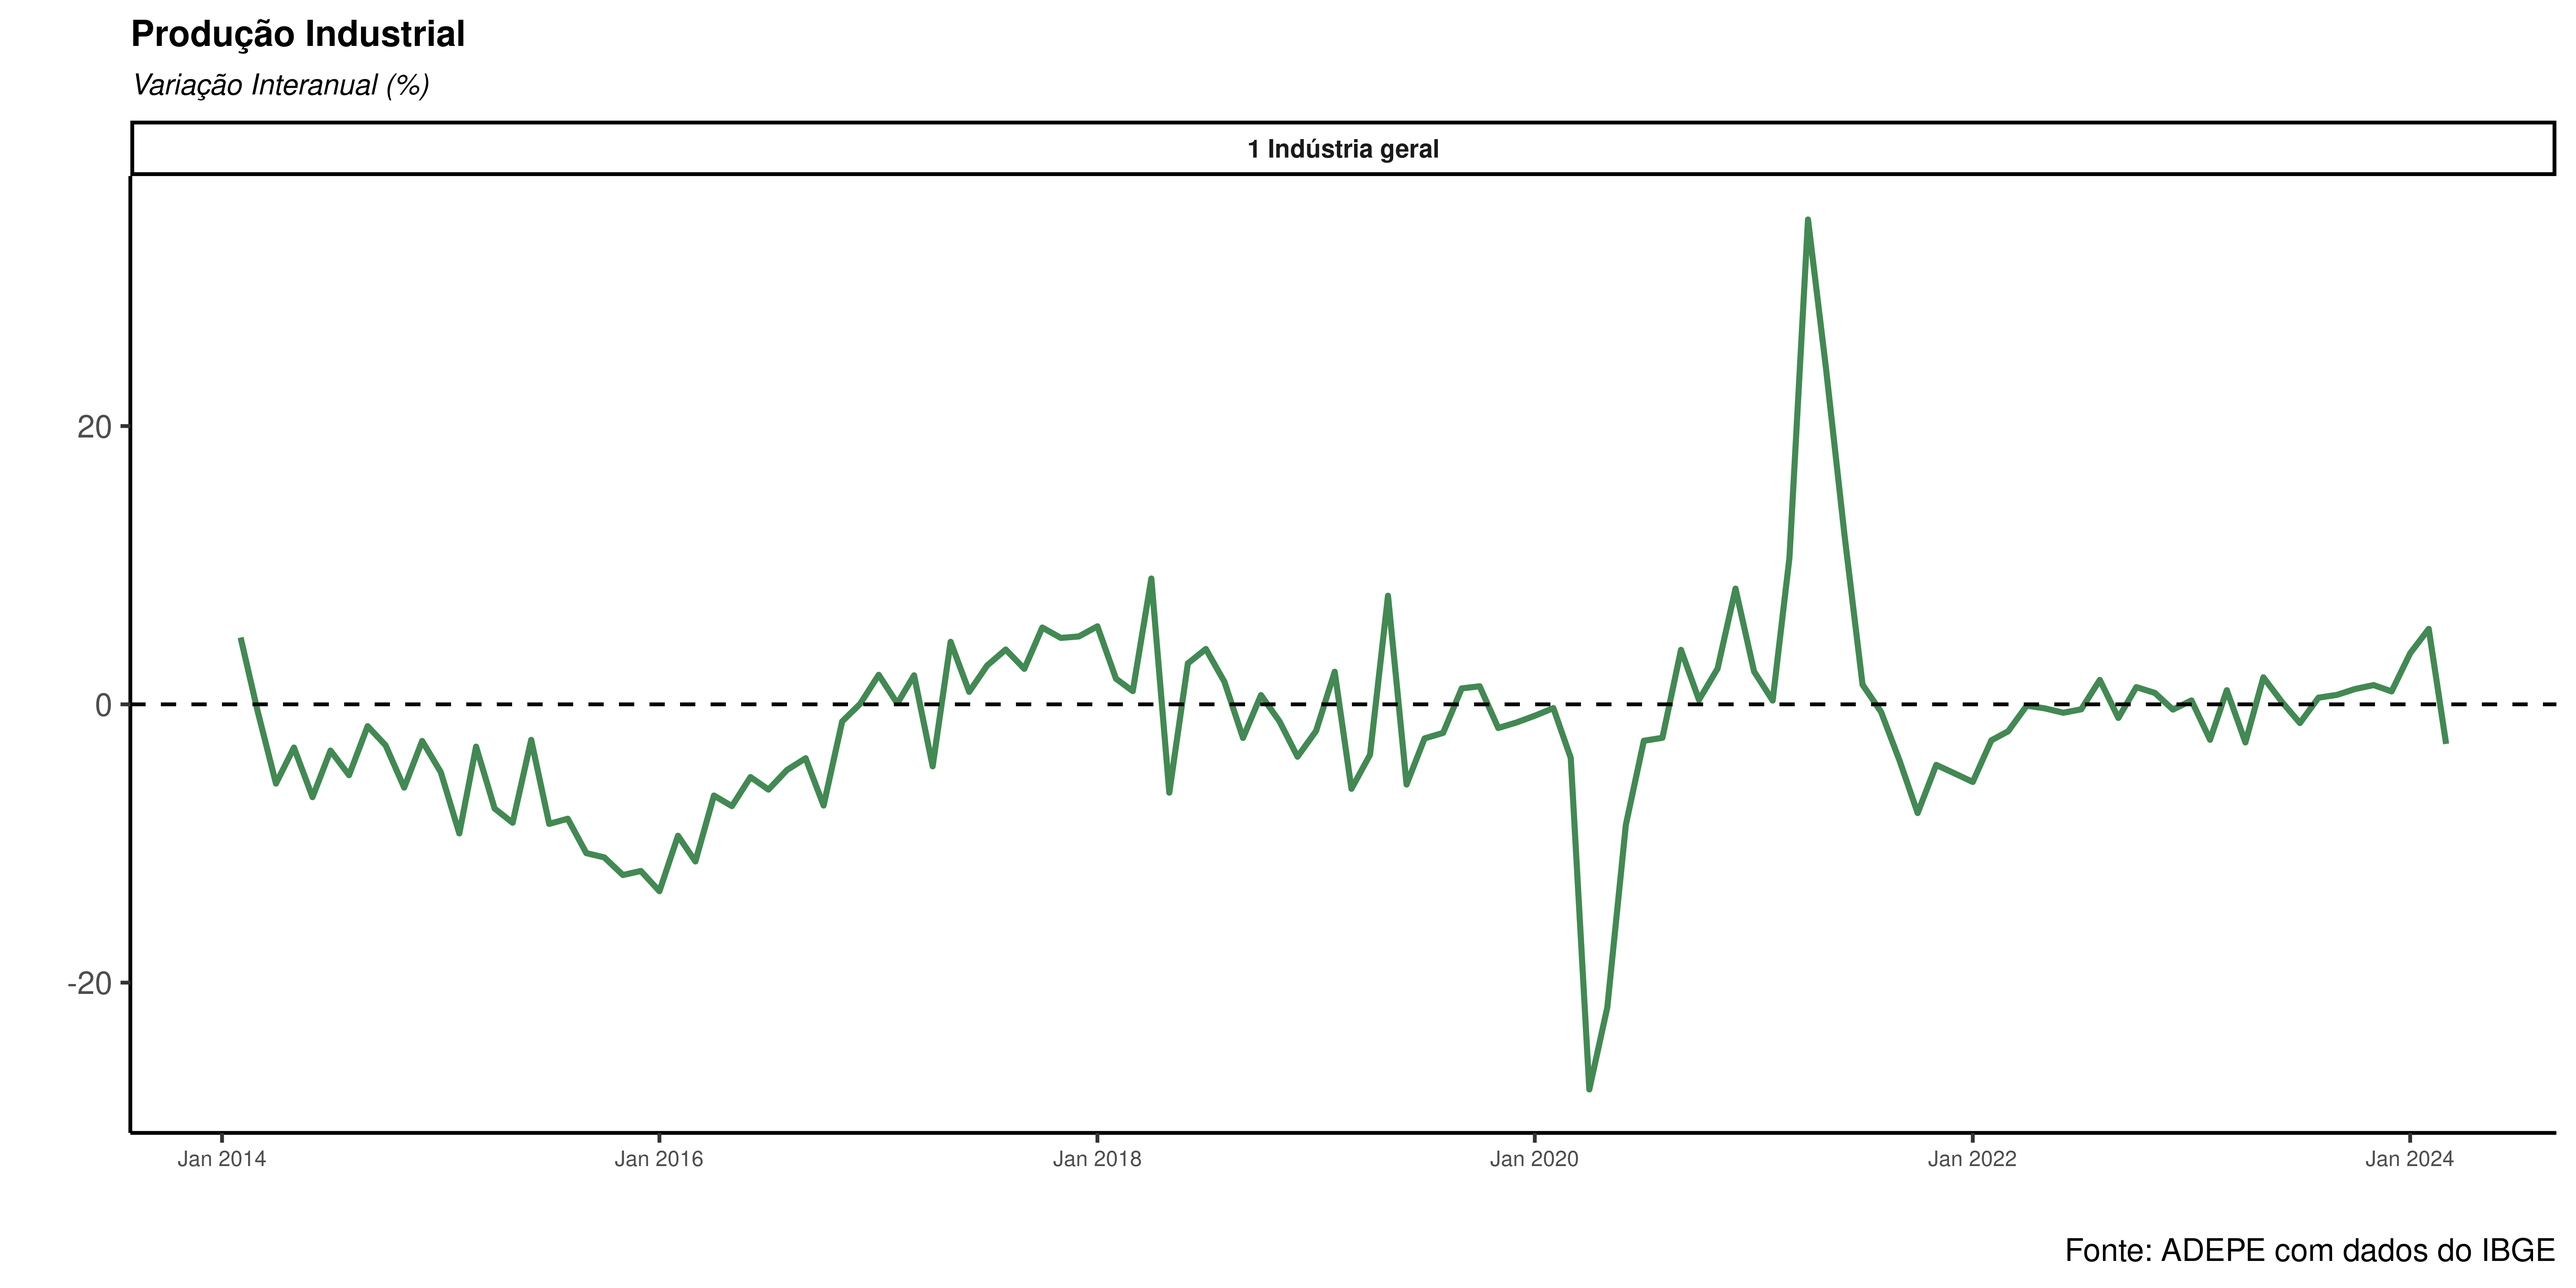
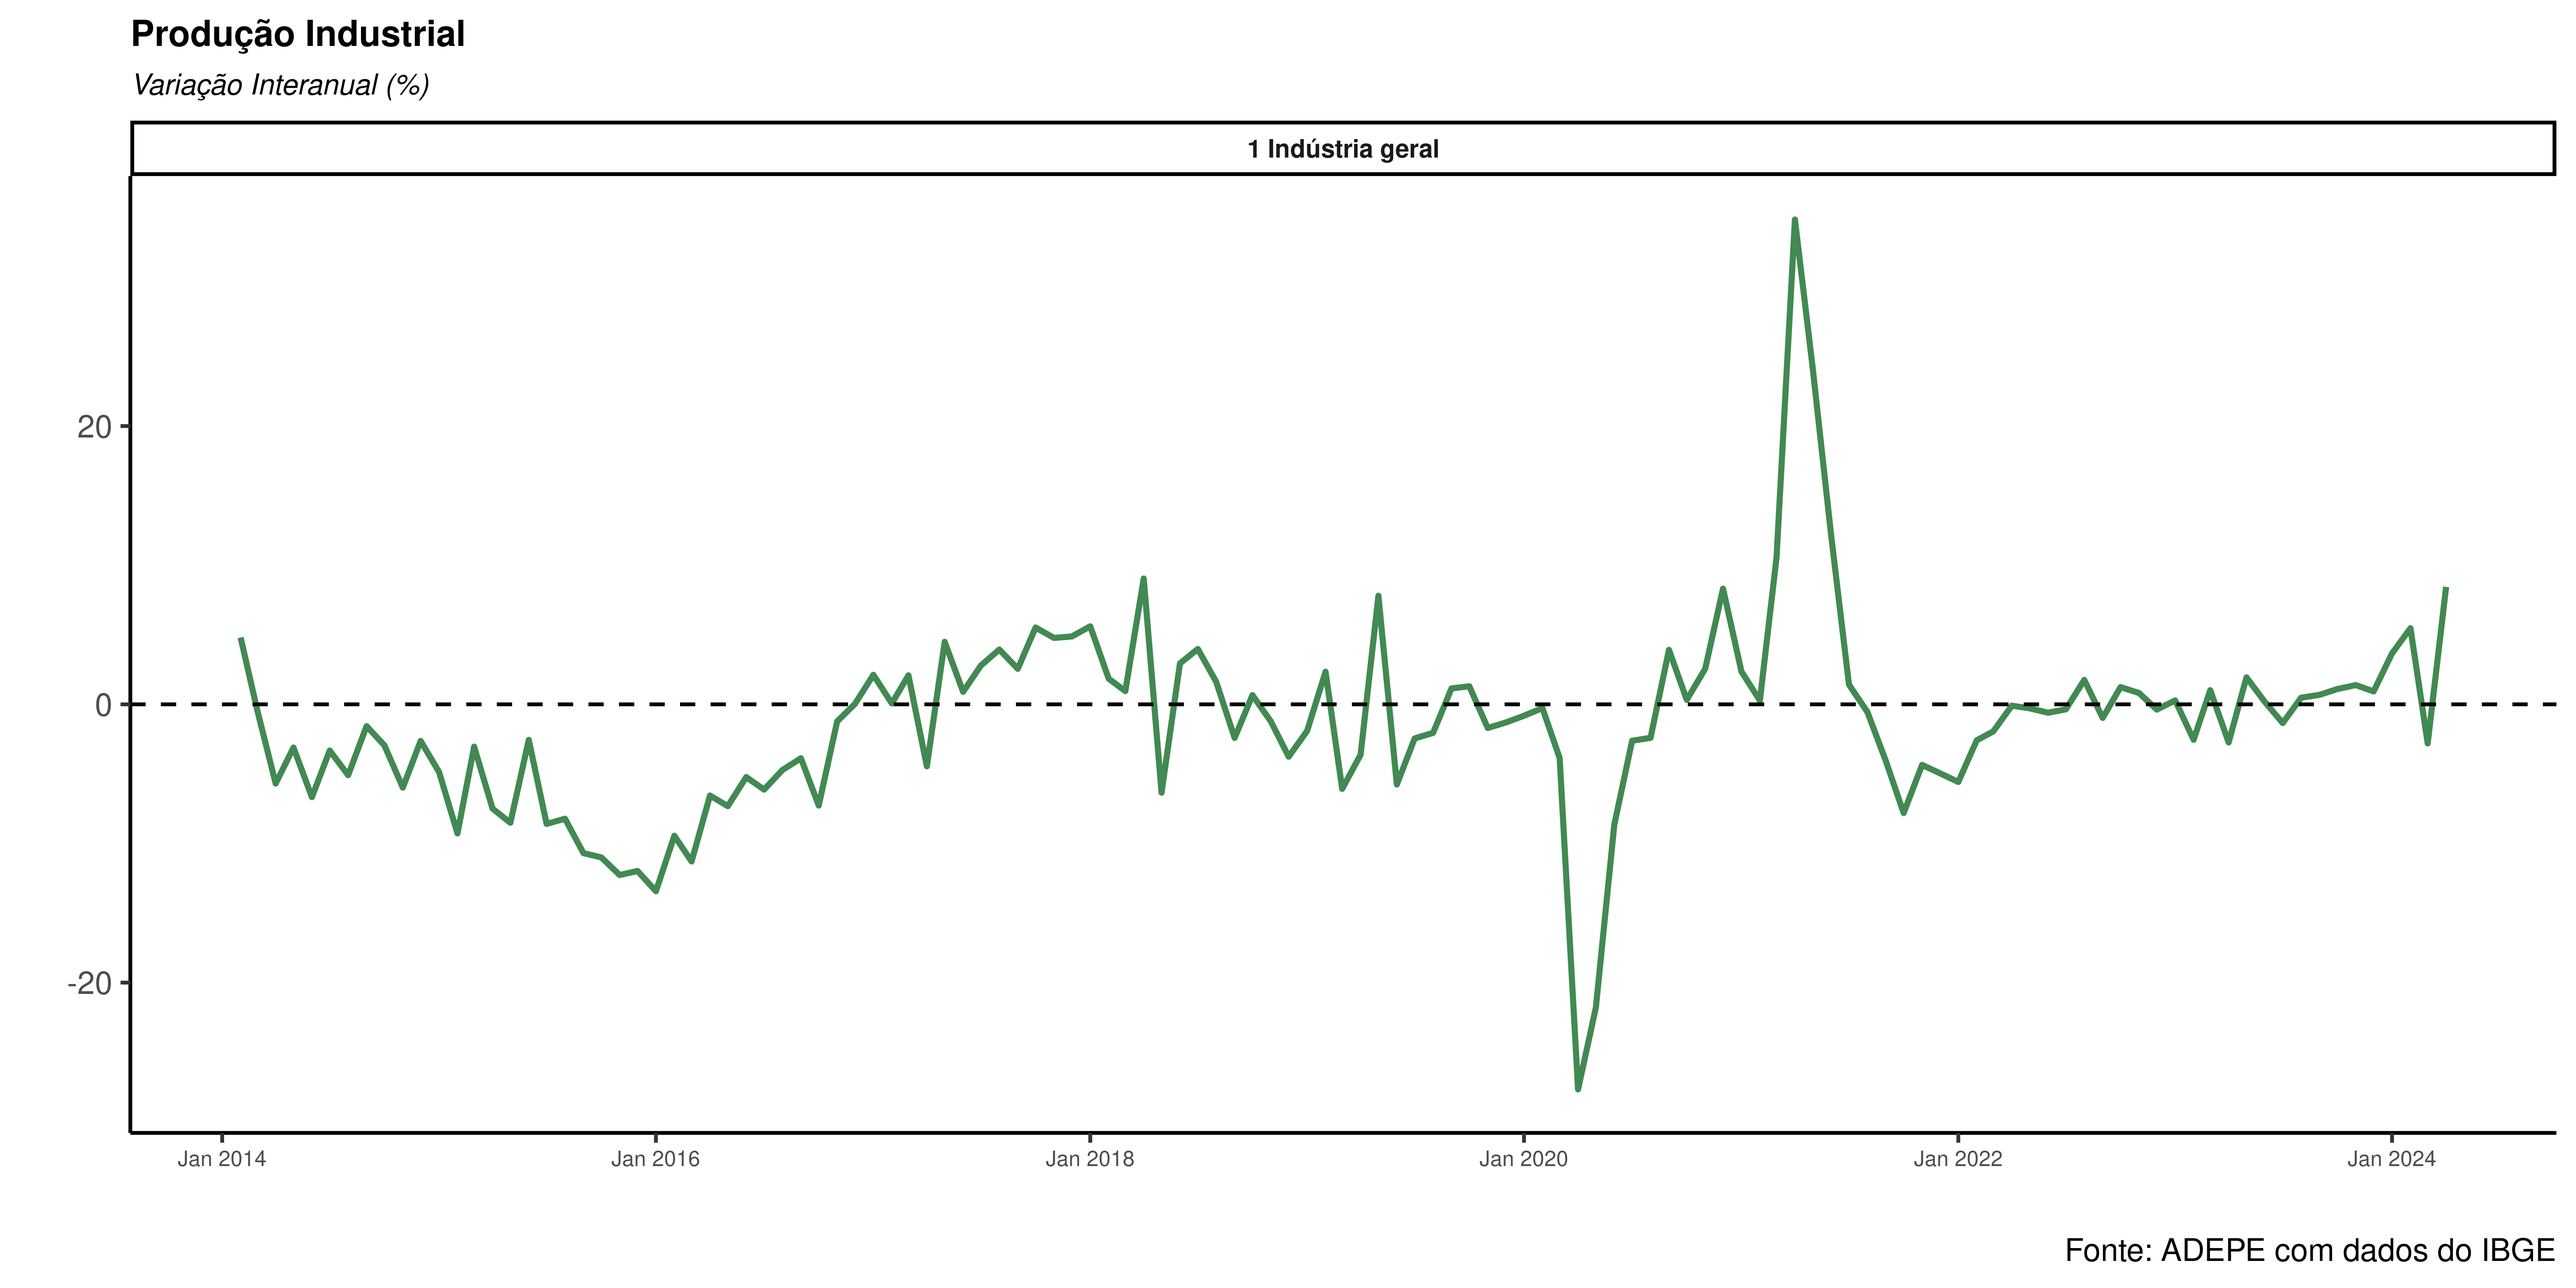
Atualização de relatório automatizada

diff --git a/pim/pim.html b/pim/pim.html
@@ -388,40 +388,40 @@ Núcleo de Dados <br><span style="font-size: 70%;">ADEPE<br><a href="https://git
 </thead>
 <tbody>
 <tr class="odd">
-<td style="text-align: center;">Oct 2023</td>
-<td style="text-align: center;">0.11</td>
-<td style="text-align: center;">-0.46</td>
-<td style="text-align: center;">0.29</td>
+<td style="text-align: center;">Nov 2023</td>
+<td style="text-align: center;">0.71</td>
+<td style="text-align: center;">3.22</td>
+<td style="text-align: center;">0.02</td>
 </tr>
 <tr class="even">
-<td style="text-align: center;">Nov 2023</td>
-<td style="text-align: center;">0.72</td>
-<td style="text-align: center;">3.38</td>
-<td style="text-align: center;">0.01</td>
-</tr>
-<tr class="odd">
 <td style="text-align: center;">Dec 2023</td>
 <td style="text-align: center;">1.21</td>
-<td style="text-align: center;">3.75</td>
-<td style="text-align: center;">0.49</td>
-</tr>
-<tr class="even">
-<td style="text-align: center;">Jan 2024</td>
-<td style="text-align: center;">-1.14</td>
-<td style="text-align: center;">-6.82</td>
-<td style="text-align: center;">0.10</td>
+<td style="text-align: center;">3.68</td>
+<td style="text-align: center;">0.52</td>
 </tr>
 <tr class="odd">
-<td style="text-align: center;">Feb 2024</td>
+<td style="text-align: center;">Jan 2024</td>
+<td style="text-align: center;">-1.18</td>
+<td style="text-align: center;">-7.07</td>
 <td style="text-align: center;">0.13</td>
-<td style="text-align: center;">-0.84</td>
-<td style="text-align: center;">0.48</td>
 </tr>
 <tr class="even">
+<td style="text-align: center;">Feb 2024</td>
+<td style="text-align: center;">0.12</td>
+<td style="text-align: center;">-1.26</td>
+<td style="text-align: center;">0.54</td>
+</tr>
+<tr class="odd">
 <td style="text-align: center;">Mar 2024</td>
-<td style="text-align: center;">0.95</td>
-<td style="text-align: center;">0.23</td>
-<td style="text-align: center;">0.80</td>
+<td style="text-align: center;">0.90</td>
+<td style="text-align: center;">0.45</td>
+<td style="text-align: center;">0.84</td>
+</tr>
+<tr class="even">
+<td style="text-align: center;">Apr 2024</td>
+<td style="text-align: center;">-0.48</td>
+<td style="text-align: center;">-3.44</td>
+<td style="text-align: center;">0.25</td>
 </tr>
 </tbody>
 </table>
@@ -449,40 +449,40 @@ Núcleo de Dados <br><span style="font-size: 70%;">ADEPE<br><a href="https://git
 </thead>
 <tbody>
 <tr class="odd">
-<td style="text-align: center;">Oct 2023</td>
-<td style="text-align: center;">1.10</td>
-<td style="text-align: center;">-0.33</td>
-<td style="text-align: center;">1.36</td>
-</tr>
-<tr class="even">
 <td style="text-align: center;">Nov 2023</td>
 <td style="text-align: center;">1.38</td>
 <td style="text-align: center;">14.55</td>
 <td style="text-align: center;">-0.78</td>
 </tr>
-<tr class="odd">
+<tr class="even">
 <td style="text-align: center;">Dec 2023</td>
 <td style="text-align: center;">0.93</td>
 <td style="text-align: center;">17.51</td>
 <td style="text-align: center;">-2.25</td>
 </tr>
-<tr class="even">
+<tr class="odd">
 <td style="text-align: center;">Jan 2024</td>
-<td style="text-align: center;">3.67</td>
+<td style="text-align: center;">3.66</td>
 <td style="text-align: center;">6.92</td>
-<td style="text-align: center;">3.06</td>
+<td style="text-align: center;">3.05</td>
+</tr>
+<tr class="even">
+<td style="text-align: center;">Feb 2024</td>
+<td style="text-align: center;">5.47</td>
+<td style="text-align: center;">5.32</td>
+<td style="text-align: center;">5.50</td>
 </tr>
 <tr class="odd">
-<td style="text-align: center;">Feb 2024</td>
-<td style="text-align: center;">5.42</td>
-<td style="text-align: center;">5.31</td>
-<td style="text-align: center;">5.44</td>
+<td style="text-align: center;">Mar 2024</td>
+<td style="text-align: center;">-2.81</td>
+<td style="text-align: center;">1.58</td>
+<td style="text-align: center;">-3.56</td>
 </tr>
 <tr class="even">
-<td style="text-align: center;">Mar 2024</td>
-<td style="text-align: center;">-2.84</td>
-<td style="text-align: center;">1.59</td>
-<td style="text-align: center;">-3.61</td>
+<td style="text-align: center;">Apr 2024</td>
+<td style="text-align: center;">8.44</td>
+<td style="text-align: center;">-1.57</td>
+<td style="text-align: center;">10.27</td>
 </tr>
 </tbody>
 </table>
@@ -510,40 +510,40 @@ Núcleo de Dados <br><span style="font-size: 70%;">ADEPE<br><a href="https://git
 </thead>
 <tbody>
 <tr class="odd">
-<td style="text-align: center;">2023-10-01</td>
-<td style="text-align: center;">0.00</td>
-<td style="text-align: center;">3.66</td>
-<td style="text-align: center;">-0.69</td>
-</tr>
-<tr class="even">
 <td style="text-align: center;">2023-11-01</td>
 <td style="text-align: center;">0.05</td>
 <td style="text-align: center;">5.17</td>
 <td style="text-align: center;">-0.88</td>
 </tr>
-<tr class="odd">
+<tr class="even">
 <td style="text-align: center;">2023-12-01</td>
 <td style="text-align: center;">0.15</td>
 <td style="text-align: center;">7.07</td>
 <td style="text-align: center;">-1.03</td>
 </tr>
-<tr class="even">
+<tr class="odd">
 <td style="text-align: center;">2024-01-01</td>
 <td style="text-align: center;">0.40</td>
 <td style="text-align: center;">7.46</td>
 <td style="text-align: center;">-0.80</td>
 </tr>
-<tr class="odd">
+<tr class="even">
 <td style="text-align: center;">2024-02-01</td>
 <td style="text-align: center;">0.99</td>
 <td style="text-align: center;">7.51</td>
 <td style="text-align: center;">-0.13</td>
 </tr>
-<tr class="even">
+<tr class="odd">
 <td style="text-align: center;">2024-03-01</td>
-<td style="text-align: center;">0.67</td>
-<td style="text-align: center;">7.36</td>
-<td style="text-align: center;">-0.48</td>
+<td style="text-align: center;">0.68</td>
+<td style="text-align: center;">7.35</td>
+<td style="text-align: center;">-0.47</td>
+</tr>
+<tr class="even">
+<td style="text-align: center;">2024-04-01</td>
+<td style="text-align: center;">1.54</td>
+<td style="text-align: center;">7.09</td>
+<td style="text-align: center;">0.59</td>
 </tr>
 </tbody>
 </table>
